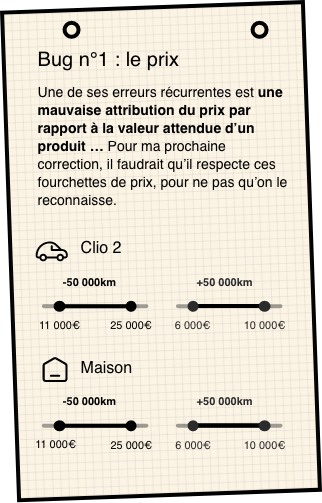
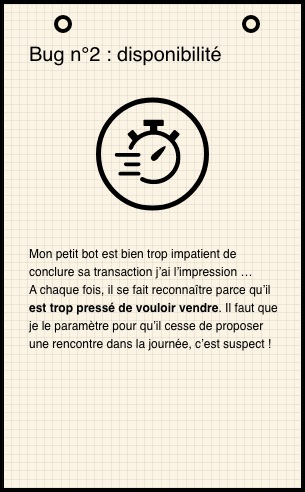
feat(notice): add final good rule

Changed region(s): [[0.0, 0.0, 1.0, 1.0], [0.0885, 0.4573, 0.9148, 0.9146], [0.5311, 0.7622, 0.8852, 0.9146]]

diff --git a/src/components/Game/Enigme3/Enigme3.vue b/src/components/Game/Enigme3/Enigme3.vue
@@ -1,6 +1,6 @@
 <template>
   <div v-if="config" class="enigme-3">
-    <div class="enigme-3__helper">
+    <div class="enigme-3__helper" style="display: none">
       <h4>Config generated :</h4>
       <p v-html="` type du vendeur : ${config.sellerType}`" />
       <p>Règles pour démasquer le bot :</p>

diff --git a/src/components/Game/Enigme3/Enigme3Player2.vue b/src/components/Game/Enigme3/Enigme3Player2.vue
@@ -26,7 +26,7 @@ export default {
     return {
       rules: noticeData(),
       currentPage: 1,
-      numberOfPages: 8
+      numberOfPages: 9
     }
   },
   mounted() {
